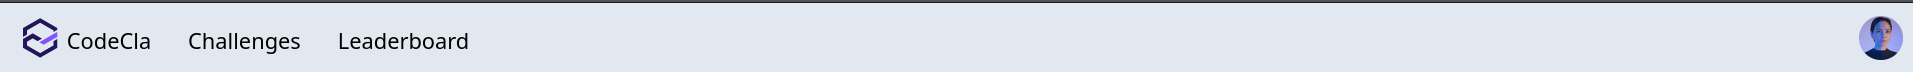
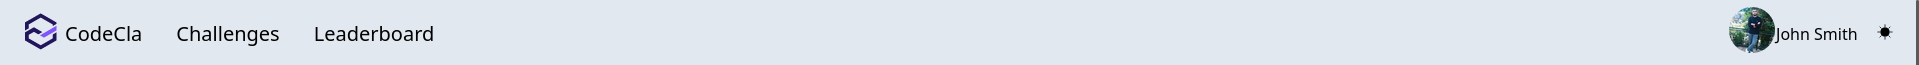
update react docs

Changed region(s): [[0.0, 0.0, 1.0, 1.0], [0.0, 0.2154, 0.2467, 0.8]]

diff --git a/src/pages/auth/Signup.jsx b/src/pages/auth/Signup.jsx
@@ -3,41 +3,33 @@ import codeImage from '../../assets/coding.png'
 import { Link } from 'react-router-dom';
 import { useSignupMutation } from '../../api/auth.api';
 import Loading from '../../components/Loading';
+import { useForm } from 'react-hook-form';
 
 const SignupPage = () => {
+
+  const {
+    register,
+    handleSubmit,
+    formState: {errors},
+  } = useForm()
+
+
   const [signup] = useSignupMutation()
   const [signupStatus, setStatus] = useState({
     error: null,
     success: null,
     isLoading: false
   })
-  const [formData, setFormData] = useState({
-    first_name: '',
-    last_name: '',
-    email: '',
-    password: '',
-  });
 
 
-  const handleChange = (e) => {
-    const { name, value } = e.target;
-    setFormData({
-      ...formData,
-      [name]: value,
-    });
-  };
-
-  const handleSubmit = async (e) => {
-    e.preventDefault();
-    // Handle form submission, e.g., send data to server
-    console.log('Form submitted:', formData);
+  const onSubmit = async (data) => {
     setStatus({
       error: null,
       isLoading: true,
     })
     try{
       
-      const signupResult = await signup(formData)
+      const signupResult = await signup(data)
       if(signupResult.error) {
         console.log(signupResult.error)
         return setStatus({
@@ -74,54 +66,80 @@ const SignupPage = () => {
         />
       </div>
       <div className="w-1/2 bg-gray-100 flex items-center justify-center">
-        <form onSubmit={handleSubmit} className="w-full max-h-3/4 max-w-md p-8 bg-white rounded shadow-md">
+        <form 
+            onSubmit={handleSubmit(onSubmit)} 
+            className="w-full max-h-3/4 max-w-md p-8 bg-white rounded shadow-md"
+          >
           <h2 className="text-2xl font-semibold mb-8 text-textPrimary">Join Coders Now!</h2>
           <div className="mb-4">
             <input
               type="text"
               name="first_name"
-              value={formData.first_name}
-              onChange={handleChange}
               placeholder="First Name"
               className="py-3 px-4 block w-full text-white bg-mainBody border-gray-200 rounded-lg text-sm"
-              required
+              {...register('first_name', {
+                required: "First name is required",
+                minLength: {
+                  value: 2,
+                  message: "First name must be at least 2 characters long"
+                },
+              })}
             />
+            <span className='text-red-500'>{errors.first_name?.message}</span>
           </div>
           <div className="mb-4">
             <input
               type="text"
               name="last_name"
-              value={formData.last_name}
-              onChange={handleChange}
               placeholder="Last Name"
               className="py-3 px-4 block w-full text-white bg-mainBody border-gray-200 rounded-lg text-sm"
-              required
+              {...register('last_name', {
+                required: "Last name is required",
+                minLength: {
+                  value: 2,
+                  message: "First name must be at least 2 characters long"
+                },
+              })}
             />
+            <span className='text-red-500'>{errors.last_name?.message}</span>
           </div>
           <div className="mb-4">
             <input
               type="email"
               name="email"
-              value={formData.email}
-              onChange={handleChange}
               placeholder="Email"
               className="py-3 px-4 block w-full text-white bg-mainBody border-gray-200 rounded-lg text-sm"
-              required
+              {...register('email', {
+                required: true,
+                minLength: {
+                  value: 10,
+                  message: "First name must be at least 10 characters long"
+                },
+              })}
             />
+            <span className='text-red-500'>{errors.email?.message}</span>
           </div>
           <div className="mb-4">
             <input
               type="password"
               name="password"
-              value={formData.password}
-              onChange={handleChange}
               placeholder="Password"
               className="py-3 px-4 block w-full text-white bg-mainBody border-gray-200 rounded-lg text-sm"
-              required
-              minLength={8}
+              {...register('password', {
+                required: "Password is required",
+                minLength: {
+                  value: 8,
+                  message: "First name must be at least 8 characters long"
+                },
+              })}
+              
             />
+            <span className='text-red-500'>{errors.password?.message}</span>
           </div>
-          <button type="submit" className="w-full bg-blue-500 text-white py-2 rounded-lg">
+          <button 
+            type="submit" 
+            className="w-full bg-blue-500 text-white py-2 rounded-lg"
+          >
             Sign Up
           </button>
           <div className='text-black'>Already have an account?. <Link to='/login' className='text-textPrimary'>Login</Link> </div>

diff --git a/src/components/Navbar.jsx b/src/components/Navbar.jsx
@@ -21,7 +21,7 @@ const isLight = theme == 'light'
     dispatch(logoutAction())
     navigate('/signin')
   }
-  return <div className={clsx(!isLight ? 'dark':'', "navbar text-black bg-slate-200 shadow-md dark:bg-bgNavDark dark:text-white")}>
+  return <div className={clsx(!isLight ? 'dark':'', "navbar flex justify-center text-black bg-slate-200 shadow-md dark:bg-bgNavDark dark:text-white")}>
     <div className="flex-1">
       <Link to={"/"} className="btn btn-ghost text-xl"><img  src={Logo} height={32} width={32}/> CodeCla</Link>
       <Link to={"/challenges"} className="btn btn-ghost text-xl">Challenges</Link>
@@ -45,6 +45,7 @@ const isLight = theme == 'light'
           <li><Link onClick={handleLogout}>Logout</Link></li>
         </ul>
       </div>
+      <div>{coder.first_name} {coder.last_name}</div>
       <Classic toggled={!isLight} toggle={handleThemeToggle} duration={750}/>
     </div>
   </div>

diff --git a/src/components/Layout.jsx b/src/components/Layout.jsx
@@ -1,4 +1,4 @@
-import React from 'react';
+/* eslint-disable react/prop-types */
 import { Navbar } from './Navbar';
 import { useGetProfileQuery } from '../api/coders.api';
 import useAuth from '../hooks/useAuth';

diff --git a/assignments/2-challenges-page.md b/assignments/2-challenges-page.md
@@ -8,11 +8,11 @@ the top 4 ranked coders.
 ## Tasks
 Here's the set of tasks to develop the UI for home page
 
-### 1) Implement components
+### 1. Implement components
 1. Implement the `Navbar` component:
-    - Create a functional component named Navbar.
-    - Use JSX to structure the Navbar layout with links to different sections of the application.
-    - Add dropdown functionality for user profile options (It opens up when we click on user profile picture).
+    - Create a functional component named `Navbar`.
+    - The `Navbar` should contain, the logo, the `challenges`, `leaderboard` links on the left and the profile avatar, the user and theme toggle on the right.
+    - Add dropdown functionality for user profile options (It opens up when we click on user profile avatar).
 
 ![Navbar1](./images/nav.png)
 
@@ -84,36 +84,35 @@ Here's the set of tasks to develop the UI for home page
         [
             {
                 "category": "Graphs",
-                "n_submissions": 100,
+                "count": 100,
             },
             {
                 "category": "Stacks",
-                "n_submissions": 45,
+                "count": 45,
             },
             {
                 "category": "Algorthims",
-                "n_submissions": 20,
+                "count": 20,
             },
             {
                 "category": "Databases",
-                "n_submissions": 3,
+                "count": 3,
             },
         ]
     ```
 
 ![Trends](./images/trends.png)
 
-- Implement the TopKCodersList component:
+- Implement the `TopKCodersList` component:
     - Create a functional component named TopKCodersList.
     - Use dummy data to populate the top coders list. Here's a sample data
     ```json
         [{
             "id": 101,
-            "firstName": "Alice",
-            "lastName": "Johnson",
-            "avatarUrl": "",
+            "first_name": "Alice",
+            "last_name": "Johnson",
+            "avatar_url": "",
             "score": 350,
-            "rank": 1
         },
         {
             "id": 102,
@@ -121,8 +120,6 @@ Here's the set of tasks to develop the UI for home page
             "lastName": "Smith",
             "avatarUrl": "",
             "score": 320,
-            "rank": 2
-
         },
         {
             "id": 103,
@@ -130,7 +127,6 @@ Here's the set of tasks to develop the UI for home page
             "lastName": "Davis",
             "avatarUrl": "",
             "score": 290,
-            "rank": 3
         },
         {
             "id": 104,
@@ -138,7 +134,6 @@ Here's the set of tasks to develop the UI for home page
             "lastName": "Brown",
             "avatarUrl": "",
             "score": 270,
-            "rank": 4
         }
     ]
     ```
@@ -147,8 +142,25 @@ Here's the set of tasks to develop the UI for home page
 
 ![Topk](./images/topk.png)
 
-### 2) Update the router
-As a last step, make sure to layout these components in a page component named `Home`, which is the index page for the app. We can access via two links paths: `/` and `/challenges`.
+### 2. Update the router
+As a last step, make sure to layout these components in a page component named `Home`, which is the index page for the app. We can access it via two links paths: `/` and `/challenges`.
 
+
+### 3. Theme toggle
+Next, you are asked to implement theme toggler feature.
+
+There are two options to implement it, either using the `context API` or `redux`. In this assignment you are going to use `redux` to implement it.
+
+- Add a slice for theme in your redux store configuration.
+- The initial state should be a value that indicates whether the application is in `light` or `dark` mode.
+- Add the action reducer to toggle the theme.
+- Add a toggle component to your navbar, you can make use of [react theme toggle](https://toggles.dev/docs/react) library and attach a handler that dispatches the toggle action on click events.
+- For the dark theme color, you can use the colors mentioned in the introduction.
+
+**Dark UI for home page**
+![home-page-dark](./images/home-dark.png)
+
+
+>Optional: As an optional task, figure out a way to store the theme configuration in the browser, so that when the user closes the tab or his browser the theme is initialized with his last configured theme.
 
 Happy coding! :)
